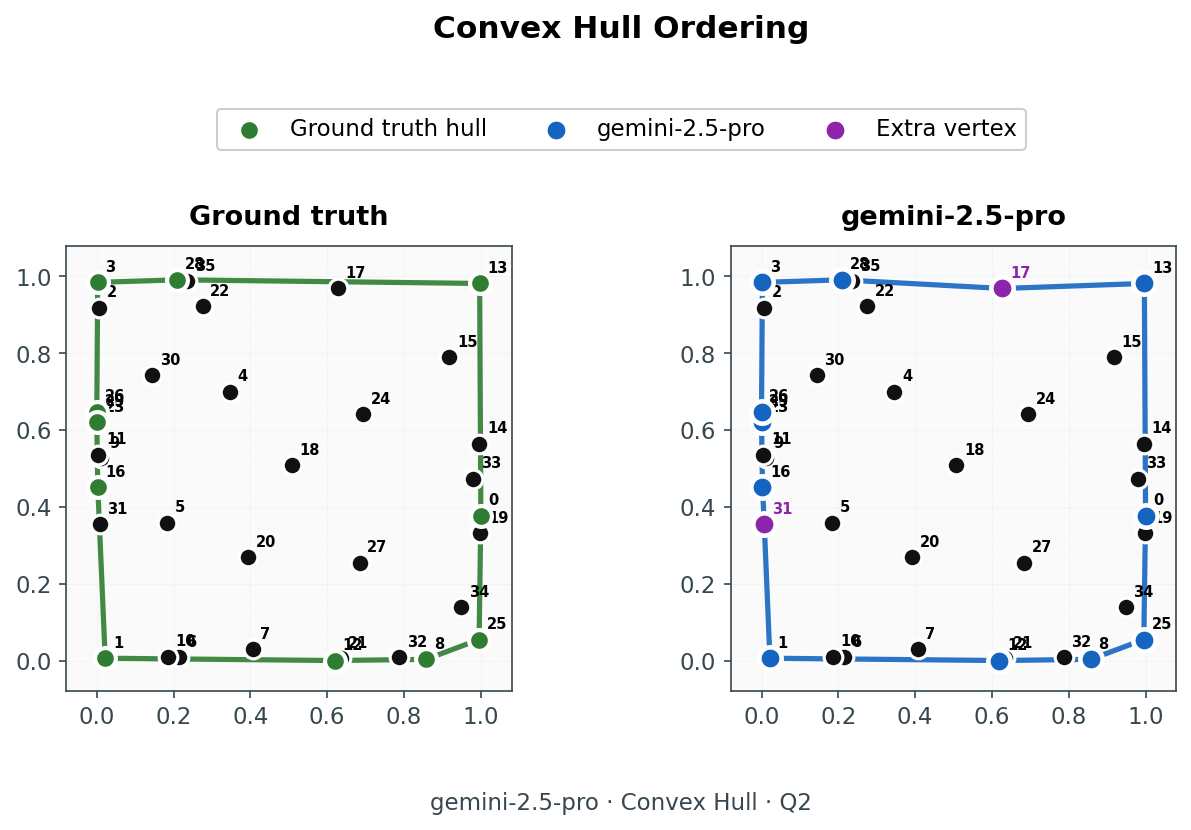
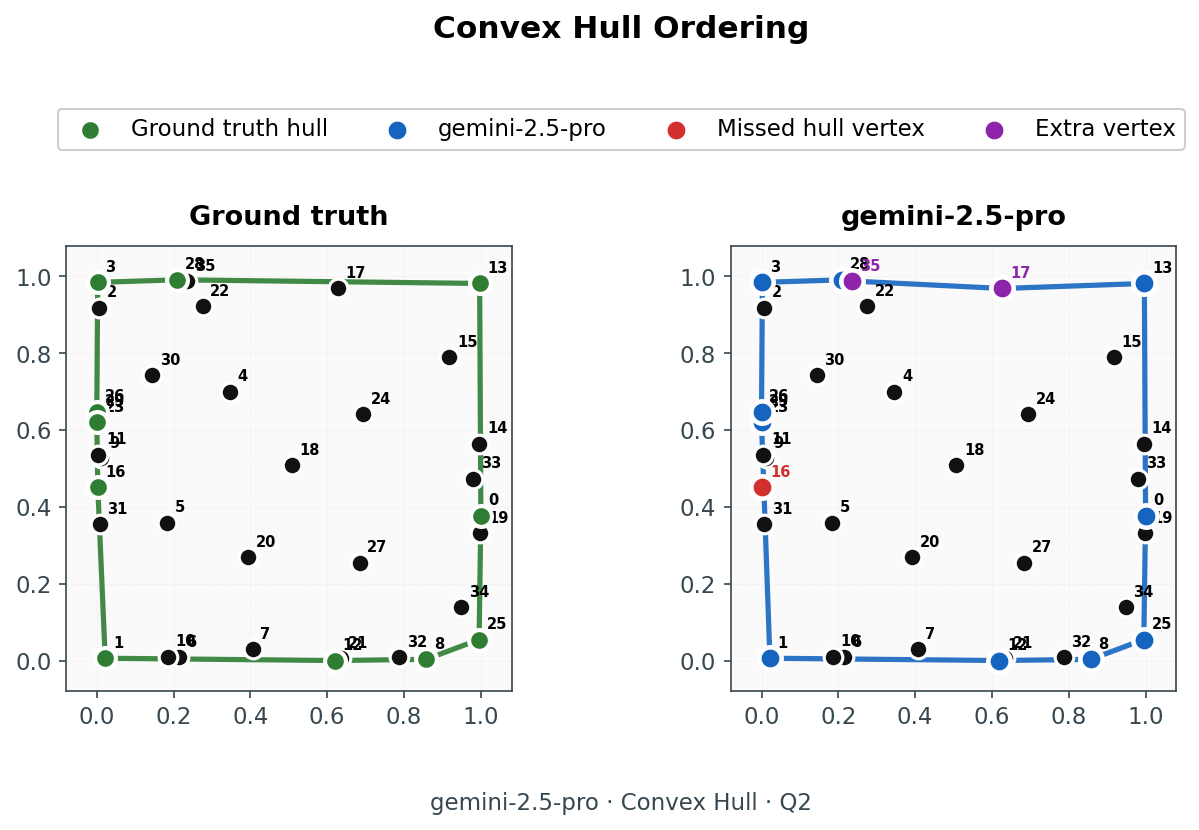
Push convex-hull labels outward for circle cases

diff --git a/visualisations/geometry.py b/visualisations/geometry.py
@@ -55,18 +55,36 @@ def _scatter_with_labels(
     *,
     label_fontsize: int = 7,
     label_colours: Mapping[int, str] | None = None,
+    circle_label_params: tuple[np.ndarray, float] | None = None,
 ) -> None:
     ax.scatter(points[:, 0], points[:, 1], s=80, color=COLOURS["points"], edgecolors="white", linewidths=1.5, zorder=3)
     custom_colours = label_colours or {}
+    if circle_label_params:
+        center, radius = circle_label_params
+        label_radius = radius * 1.14
+    else:
+        center = None
+        label_radius = None
     for idx, (x, y) in enumerate(points):
+        if label_radius is not None and center is not None:
+            angle = np.arctan2(y - center[1], x - center[0])
+            label_x = center[0] + label_radius * np.cos(angle)
+            label_y = center[1] + label_radius * np.sin(angle)
+            ha = "center"
+            va = "center"
+        else:
+            label_x = x + 0.02
+            label_y = y + 0.02
+            ha = "left"
+            va = "bottom"
         ax.text(
-            x + 0.02,
-            y + 0.02,
+            label_x,
+            label_y,
             str(idx),
             color=custom_colours.get(idx, "black"),
             fontsize=label_fontsize,
-            ha="left",
-            va="bottom",
+            ha=ha,
+            va=va,
             weight="bold",
             bbox=None,
         )
@@ -194,7 +212,8 @@ def _render_convex_hull(
                 zorder=1,
             )
 
-    _scatter_with_labels(ax_gt, points)
+    label_circle = circle_params if is_circle else None
+    _scatter_with_labels(ax_gt, points, circle_label_params=label_circle)
 
     hull_indices = list(map(int, ground_truth))
     legend_entries: dict[str, Any] = {}
@@ -216,7 +235,7 @@ def _render_convex_hull(
 
     parsed_answer = _coerce_index_list(answer)
     if parsed_answer is None:
-        _scatter_with_labels(ax_ans, points)
+        _scatter_with_labels(ax_ans, points, circle_label_params=label_circle)
         _draw_invalid_message(ax_ans, "Invalid answer")
     else:
         answer_points: list[int] = []
@@ -236,7 +255,7 @@ def _render_convex_hull(
         for idx in extra:
             label_overrides[idx] = COLOURS["extra_vertex"]
 
-        _scatter_with_labels(ax_ans, points, label_colours=label_overrides)
+        _scatter_with_labels(ax_ans, points, label_colours=label_overrides, circle_label_params=label_circle)
 
         draw_indices = answer_points if len(answer_points) >= 2 else []
         if draw_indices:
